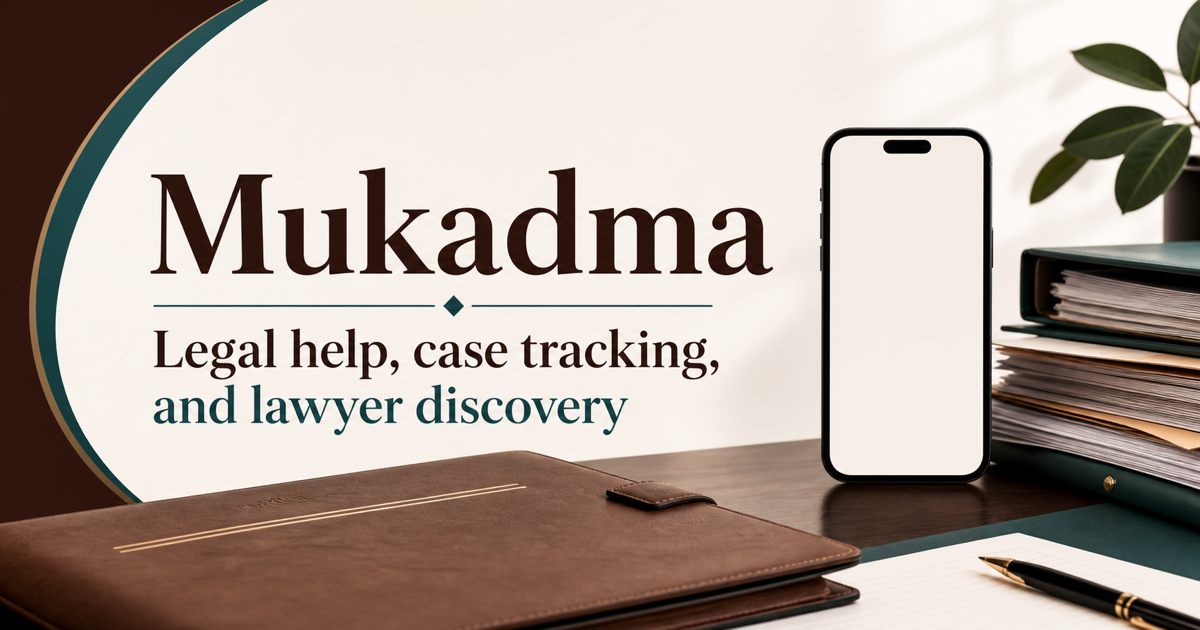
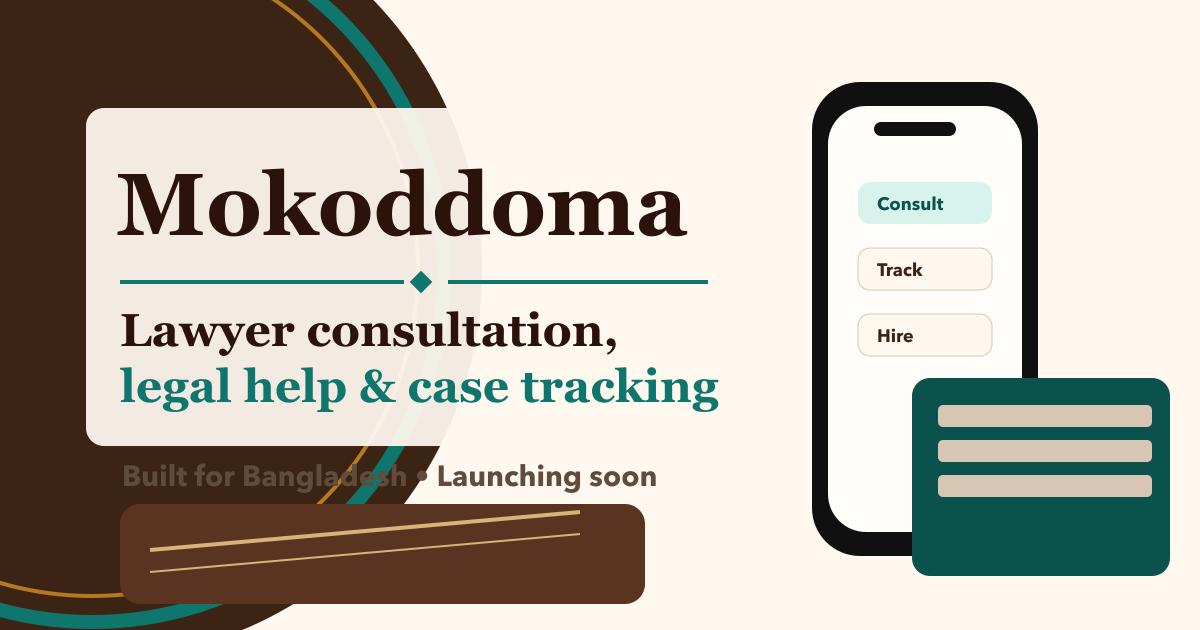
Update Mokoddoma branding and SEO

diff --git a/index.html b/index.html
@@ -4,20 +4,21 @@
     <meta charset="utf-8">
     <meta name="viewport" content="width=device-width, initial-scale=1">
     <meta name="theme-color" content="#f7efe5">
-    <meta name="description" content="Mokoddoma is Bangladesh's own mobile-first legal help platform, launching soon on Android and iOS for faster lawyer consultation, case tracking, and legal assistance.">
+    <meta name="description" content="Mokoddoma is Bangladesh's mobile-first legal help and lawyer consultation platform for case tracking, verified lawyer discovery, and guided legal assistance.">
     <meta name="robots" content="index, follow">
     <meta property="og:type" content="website">
     <meta property="og:url" content="https://mokoddoma.com/">
-    <meta property="og:title" content="Mokoddoma | Bangladesh's Legal Help App, Launching Soon">
+    <meta property="og:title" content="Mokoddoma | Lawyer Consultation & Legal Help in Bangladesh">
     <meta property="og:description" content="Built for Bangladesh: legal consultation, case status support, verified lawyer discovery, and guidance in Bangla and English.">
     <meta property="og:image" content="https://mokoddoma.com/assets/og.png">
     <meta name="twitter:card" content="summary_large_image">
-    <meta name="twitter:title" content="Mokoddoma | Bangladesh's Legal Help App">
+    <meta name="twitter:title" content="Mokoddoma | Lawyer Consultation & Legal Help">
     <meta name="twitter:description" content="Bangladesh's mobile-first legal help app. Android and iOS launching soon.">
-    <title>Mokoddoma | Bangladesh's Legal Help App</title>
+    <title>Mokoddoma | Lawyer Consultation & Legal Help in Bangladesh</title>
     <link rel="canonical" href="https://mokoddoma.com/">
-    <link rel="icon" href="./assets/favicon.png">
-    <link rel="preload" href="./assets/mukoddoma_logo_en_whitebg.svg" as="image">
+    <link rel="icon" href="./assets/favicon.svg" type="image/svg+xml">
+    <link rel="alternate icon" href="./assets/favicon.png" type="image/png">
+    <link rel="preload" href="./assets/mokoddoma_logo_en_whitebg.svg" as="image">
     <link rel="preload" href="./assets/bangladesh-flag.svg" as="image">
     <link rel="stylesheet" href="./styles.css">
     <script type="application/ld+json">
@@ -25,7 +26,7 @@
         "@context": "https://schema.org",
         "@type": "LegalService",
         "name": "Mokoddoma",
-        "alternateName": "Mukadma",
+        "alternateName": "Mokoddoma Legal",
         "url": "https://mokoddoma.com/",
         "description": "Mokoddoma is Bangladesh's own mobile-first legal services platform for lawyer consultation, case status support, verified lawyer discovery, and guided legal assistance.",
         "areaServed": {
@@ -34,10 +35,50 @@
         },
         "availableLanguage": ["Bangla", "English"],
         "serviceType": [
+          "Lawyer Consultation",
           "Legal Consultancy",
           "Case Status Check",
           "Hire a Lawyer",
           "Legal Assistance"
+        ],
+        "knowsAbout": [
+          "Bangladesh legal help",
+          "lawyer consultation",
+          "case tracking",
+          "civil cases",
+          "criminal cases"
+        ]
+      }
+    </script>
+    <script type="application/ld+json">
+      {
+        "@context": "https://schema.org",
+        "@type": "FAQPage",
+        "mainEntity": [
+          {
+            "@type": "Question",
+            "name": "Can Mokoddoma help me find a lawyer in Bangladesh?",
+            "acceptedAnswer": {
+              "@type": "Answer",
+              "text": "Mokoddoma is being built to help people in Bangladesh discover lawyers, request legal consultation, and understand the next step for civil, criminal, and other legal issues."
+            }
+          },
+          {
+            "@type": "Question",
+            "name": "What legal services will Mokoddoma support?",
+            "acceptedAnswer": {
+              "@type": "Answer",
+              "text": "Mokoddoma is planned for lawyer consultation, case status support, lawyer discovery, document guidance, and legal assistance through a mobile-first app."
+            }
+          },
+          {
+            "@type": "Question",
+            "name": "Is Mokoddoma available for Android and iOS?",
+            "acceptedAnswer": {
+              "@type": "Answer",
+              "text": "Mokoddoma is launching soon for Android and iOS, with website updates available at mokoddoma.com."
+            }
+          }
         ]
       }
     </script>
@@ -45,12 +86,13 @@
   <body data-lang="bn">
     <header class="site-header">
       <a class="site-logo" href="./" aria-label="Mokoddoma home">
-        <img src="./assets/mukoddoma_logo_en_whitebg.svg" alt="Mokoddoma">
+        <img src="./assets/mokoddoma_logo_en_whitebg.svg" alt="Mokoddoma">
       </a>
       <nav class="site-nav" aria-label="Primary navigation">
         <a href="#why"><span class="lang-en">Why</span><span class="lang-bn">কেন</span></a>
         <a href="#instant"><span class="lang-en">Instant</span><span class="lang-bn">ধাপ</span></a>
         <a href="#services"><span class="lang-en">Services</span><span class="lang-bn">সেবা</span></a>
+        <a href="#legal-help"><span class="lang-en">Legal Help</span><span class="lang-bn">আইন সহায়তা</span></a>
         <a href="#launch"><span class="lang-en">Launch</span><span class="lang-bn">আসছে</span></a>
         <a href="./contact/"><span class="lang-en">Contact</span><span class="lang-bn">যোগাযোগ</span></a>
       </nav>
@@ -68,7 +110,7 @@
             <span class="lang-bn">আইনগত সহায়তার পথটা হোক সহজ।</span>
           </h1>
           <p class="hero-lede compact">
-            <span class="lang-en">Lawyer discovery, consultation, case tracking, and guidance in one mobile app.</span>
+            <span class="lang-en">Find lawyers, request legal consultation, track case updates, and get guided legal assistance in one mobile app.</span>
             <span class="lang-bn">দেওয়ানি বা ফৌজদারি বিষয়ে আইনজীবীর সাথে কথা বলা, মামলার তথ্য জানা ও পরবর্তী করণীয় বুঝে নেওয়ার জন্য এক জায়গা।</span>
           </p>
           <div class="hero-actions" aria-label="Main actions">
@@ -252,6 +294,30 @@
         </div>
       </section>
 
+      <section class="seo-faq-section" id="legal-help" aria-labelledby="legal-help-title">
+        <div class="section-heading reveal">
+          <p class="eyebrow"><span class="lang-en">Legal help Bangladesh</span><span class="lang-bn">বাংলাদেশে আইনগত সহায়তা</span></p>
+          <h2 id="legal-help-title">
+            <span class="lang-en">Search-friendly answers for people looking for lawyers and legal help.</span>
+            <span class="lang-bn">আইনজীবী ও আইনগত সহায়তা খোঁজা মানুষের সাধারণ প্রশ্নের উত্তর।</span>
+          </h2>
+        </div>
+        <div class="faq-grid">
+          <article class="faq-card reveal">
+            <h3><span class="lang-en">Lawyer consultation in Bangladesh</span><span class="lang-bn">বাংলাদেশে আইনজীবীর পরামর্শ</span></h3>
+            <p><span class="lang-en">Mokoddoma is being built to make it easier to explain your issue, request legal consultation, and move toward a lawyer-led next step.</span><span class="lang-bn">সমস্যা লিখে আইনজীবীর পরামর্শ নেওয়া এবং পরবর্তী পদক্ষেপ বোঝার পথ সহজ করতে মোকদ্দমা তৈরি হচ্ছে।</span></p>
+          </article>
+          <article class="faq-card reveal">
+            <h3><span class="lang-en">Find a lawyer for civil or criminal issues</span><span class="lang-bn">দেওয়ানি বা ফৌজদারি বিষয়ে আইনজীবী খোঁজা</span></h3>
+            <p><span class="lang-en">The app will focus first on civil and criminal support, with verified lawyer discovery and guided intake for common legal concerns.</span><span class="lang-bn">শুরুতে দেওয়ানি ও ফৌজদারি বিষয়ে সহায়তা, যাচাই করা আইনজীবীর তথ্য এবং গোছানোভাবে বিষয় জানানোর সুবিধা থাকবে।</span></p>
+          </article>
+          <article class="faq-card reveal">
+            <h3><span class="lang-en">Case status and legal assistance</span><span class="lang-bn">মামলার তথ্য ও আইনগত সহায়তা</span></h3>
+            <p><span class="lang-en">Mokoddoma plans to bring consultation, case tracking, document guidance, and legal assistance into one mobile-first experience.</span><span class="lang-bn">পরামর্শ, মামলার তথ্য, কাগজপত্রের দিকনির্দেশনা ও আইনগত সহায়তা এক জায়গায় আনার পরিকল্পনা রয়েছে।</span></p>
+          </article>
+        </div>
+      </section>
+
       <section class="launch-section launch-bd" id="launch" aria-labelledby="launch-title">
         <div class="launch-copy reveal">
           <p class="eyebrow"><span class="lang-en">Launching soon</span><span class="lang-bn">প্রস্তুতি চলছে</span></p>
@@ -301,7 +367,7 @@
     </button>
 
     <footer class="site-footer">
-      <img src="./assets/mukoddoma_logo_en_whitebg.svg" alt="Mokoddoma">
+      <img src="./assets/mokoddoma_logo_en_whitebg.svg" alt="Mokoddoma">
       <p><span class="lang-en">Bangladesh's own mobile-first legal help app. Launching soon.</span><span class="lang-bn">মোবাইলেই আইনগত সহায়তার সহজ পথ। দেশে তৈরি, দেশের মানুষের জন্য।</span></p>
       <nav class="footer-links" aria-label="Footer navigation">
         <a href="./contact/">Contact</a>

diff --git a/terms/index.html b/terms/index.html
@@ -8,13 +8,14 @@
     <meta name="robots" content="index, follow">
     <title>Terms & Conditions | Mokoddoma</title>
     <link rel="canonical" href="https://mokoddoma.com/terms/">
-    <link rel="icon" href="../assets/favicon.png">
+    <link rel="icon" href="../assets/favicon.svg" type="image/svg+xml">
+    <link rel="alternate icon" href="../assets/favicon.png" type="image/png">
     <link rel="stylesheet" href="../styles.css">
   </head>
   <body class="content-page" data-lang="bn">
     <header class="site-header">
       <a class="site-logo" href="../" aria-label="Mokoddoma home">
-        <img src="../assets/mukoddoma_logo_en_whitebg.svg" alt="Mokoddoma">
+        <img src="../assets/mokoddoma_logo_en_whitebg.svg" alt="Mokoddoma">
       </a>
       <nav class="site-nav" aria-label="Primary navigation">
         <a href="../#why"><span class="lang-en">Why</span><span class="lang-bn">কেন</span></a>
@@ -65,7 +66,7 @@
     </button>
 
     <footer class="site-footer">
-      <img src="../assets/mukoddoma_logo_en_whitebg.svg" alt="Mokoddoma">
+      <img src="../assets/mokoddoma_logo_en_whitebg.svg" alt="Mokoddoma">
       <p><span class="lang-en">Bangladesh's own mobile-first legal help app. Launching soon.</span><span class="lang-bn">মোবাইলেই আইনগত সহায়তার সহজ পথ। দেশে তৈরি, দেশের মানুষের জন্য।</span></p>
       <nav class="footer-links" aria-label="Footer navigation">
         <a href="../contact/">Contact</a>

diff --git a/privacy/index.html b/privacy/index.html
@@ -8,13 +8,14 @@
     <meta name="robots" content="index, follow">
     <title>Privacy Policy | Mokoddoma</title>
     <link rel="canonical" href="https://mokoddoma.com/privacy/">
-    <link rel="icon" href="../assets/favicon.png">
+    <link rel="icon" href="../assets/favicon.svg" type="image/svg+xml">
+    <link rel="alternate icon" href="../assets/favicon.png" type="image/png">
     <link rel="stylesheet" href="../styles.css">
   </head>
   <body class="content-page" data-lang="bn">
     <header class="site-header">
       <a class="site-logo" href="../" aria-label="Mokoddoma home">
-        <img src="../assets/mukoddoma_logo_en_whitebg.svg" alt="Mokoddoma">
+        <img src="../assets/mokoddoma_logo_en_whitebg.svg" alt="Mokoddoma">
       </a>
       <nav class="site-nav" aria-label="Primary navigation">
         <a href="../#why"><span class="lang-en">Why</span><span class="lang-bn">কেন</span></a>
@@ -65,7 +66,7 @@
     </button>
 
     <footer class="site-footer">
-      <img src="../assets/mukoddoma_logo_en_whitebg.svg" alt="Mokoddoma">
+      <img src="../assets/mokoddoma_logo_en_whitebg.svg" alt="Mokoddoma">
       <p><span class="lang-en">Bangladesh's own mobile-first legal help app. Launching soon.</span><span class="lang-bn">মোবাইলেই আইনগত সহায়তার সহজ পথ। দেশে তৈরি, দেশের মানুষের জন্য।</span></p>
       <nav class="footer-links" aria-label="Footer navigation">
         <a href="../contact/">Contact</a>

diff --git a/contact/index.html b/contact/index.html
@@ -8,13 +8,14 @@
     <meta name="robots" content="index, follow">
     <title>Contact | Mokoddoma</title>
     <link rel="canonical" href="https://mokoddoma.com/contact/">
-    <link rel="icon" href="../assets/favicon.png">
+    <link rel="icon" href="../assets/favicon.svg" type="image/svg+xml">
+    <link rel="alternate icon" href="../assets/favicon.png" type="image/png">
     <link rel="stylesheet" href="../styles.css">
   </head>
   <body class="content-page" data-lang="bn">
     <header class="site-header">
       <a class="site-logo" href="../" aria-label="Mokoddoma home">
-        <img src="../assets/mukoddoma_logo_en_whitebg.svg" alt="Mokoddoma">
+        <img src="../assets/mokoddoma_logo_en_whitebg.svg" alt="Mokoddoma">
       </a>
       <nav class="site-nav" aria-label="Primary navigation">
         <a href="../#why"><span class="lang-en">Why</span><span class="lang-bn">কেন</span></a>
@@ -64,7 +65,7 @@
     </button>
 
     <footer class="site-footer">
-      <img src="../assets/mukoddoma_logo_en_whitebg.svg" alt="Mokoddoma">
+      <img src="../assets/mokoddoma_logo_en_whitebg.svg" alt="Mokoddoma">
       <p><span class="lang-en">Bangladesh's own mobile-first legal help app. Launching soon.</span><span class="lang-bn">মোবাইলেই আইনগত সহায়তার সহজ পথ। দেশে তৈরি, দেশের মানুষের জন্য।</span></p>
       <nav class="footer-links" aria-label="Footer navigation">
         <a href="../contact/">Contact</a>

diff --git a/404.html b/404.html
@@ -5,16 +5,17 @@
     <meta name="viewport" content="width=device-width, initial-scale=1">
     <meta name="theme-color" content="#f7faf8">
     <meta name="robots" content="noindex">
-    <title>Page Not Found | Mukadma</title>
-    <link rel="icon" href="/assets/favicon.png">
+    <title>Page Not Found | Mokoddoma</title>
+    <link rel="icon" href="/assets/favicon.svg" type="image/svg+xml">
+    <link rel="alternate icon" href="/assets/favicon.png" type="image/png">
     <link rel="stylesheet" href="/styles.css">
   </head>
   <body>
     <main class="page-shell">
       <section class="reset-panel" aria-labelledby="page-title">
-        <img class="brand-logo" src="/assets/mukoddoma_logo_en_whitebg.svg" alt="Mukadma">
+        <img class="brand-logo" src="/assets/mokoddoma_logo_en_whitebg.svg" alt="Mokoddoma">
         <h1 id="page-title">Page not found</h1>
-        <p class="status-text">The page you are looking for is not available. Return to the Mukadma homepage for legal services information.</p>
+        <p class="status-text">The page you are looking for is not available. Return to the Mokoddoma homepage for legal services information.</p>
         <a class="primary-link" href="/">Go to homepage</a>
       </section>
     </main>

diff --git a/reset-password/index.html b/reset-password/index.html
@@ -4,14 +4,15 @@
     <meta charset="utf-8">
     <meta name="viewport" content="width=device-width, initial-scale=1">
     <meta name="theme-color" content="#3b2414">
-    <title>Mukadma Password Reset</title>
-    <link rel="icon" href="../assets/favicon.png">
+    <title>Mokoddoma Password Reset</title>
+    <link rel="icon" href="../assets/favicon.svg" type="image/svg+xml">
+    <link rel="alternate icon" href="../assets/favicon.png" type="image/png">
     <link rel="stylesheet" href="../styles.css">
   </head>
   <body>
     <main class="page-shell">
       <section class="reset-panel" aria-labelledby="page-title">
-        <img class="brand-logo" src="../assets/mukoddoma_logo_en_whitebg.svg" alt="Mukadma">
+        <img class="brand-logo" src="../assets/mokoddoma_logo_en_whitebg.svg" alt="Mokoddoma">
         <div class="lock-mark" aria-hidden="true">
           <svg viewBox="0 0 24 24" role="img">
             <path d="M7 10V8a5 5 0 0 1 10 0v2h1.25A1.75 1.75 0 0 1 20 11.75v7.5A1.75 1.75 0 0 1 18.25 21H5.75A1.75 1.75 0 0 1 4 19.25v-7.5A1.75 1.75 0 0 1 5.75 10H7Zm2 0h6V8a3 3 0 1 0-6 0v2Zm3 3.75a1.25 1.25 0 0 0-.75 2.25v1.5a.75.75 0 0 0 1.5 0V16A1.25 1.25 0 0 0 12 13.75Z"/>

diff --git a/styles.css b/styles.css
@@ -1690,6 +1690,40 @@ input[data-validity="invalid"] {
   content: "×";
 }
 
+.seo-faq-section {
+  width: min(1120px, calc(100% - 40px));
+  margin: 0 auto;
+  padding: 76px 0;
+}
+
+.faq-grid {
+  display: grid;
+  grid-template-columns: repeat(3, minmax(0, 1fr));
+  gap: 18px;
+}
+
+.faq-card {
+  min-height: 220px;
+  padding: 22px;
+  border: 1px solid rgba(216, 198, 181, 0.86);
+  border-radius: 8px;
+  background: var(--surface);
+  box-shadow: 0 18px 38px rgba(44, 34, 28, 0.08);
+}
+
+.faq-card h3 {
+  margin: 0 0 10px;
+  color: var(--primary-strong);
+  font-size: 1.2rem;
+  line-height: 1.25;
+}
+
+.faq-card p {
+  margin: 0;
+  color: var(--muted);
+  line-height: 1.65;
+}
+
 button {
   min-height: 52px;
   border: 0;
@@ -1894,6 +1928,7 @@ button:disabled {
   .proof-grid,
   .pain-grid,
   .service-grid,
+  .faq-grid,
   .instant-path,
   .case-type-list,
   .lawyer-grid,
@@ -1913,6 +1948,7 @@ button:disabled {
   .comparison-section,
   .split-section,
   .instant-section,
+  .seo-faq-section,
   .case-cloud,
   .launch-section,
   .source-section {

diff --git a/README.md b/README.md
@@ -1,6 +1,6 @@
-# Mukadma Website
+# Mokoddoma Website
 
-Static website for Mukadma business/service information, plus a separate password reset page for app links.
+Static website for Mokoddoma business/service information, plus a separate password reset page for app links.
 
 ## Homepage
 
@@ -19,10 +19,12 @@ SEO basics included:
 
 - Search-friendly title and meta description
 - Open Graph and Twitter metadata
-- `LegalService` structured data
+- `LegalService` and `FAQPage` structured data
 - `robots.txt`
 - `sitemap.xml`
 - Semantic headings and landmark navigation
+
+The social preview image is generated from `assets/og.svg` into `assets/og.png`.
 
 ## Password reset
 
